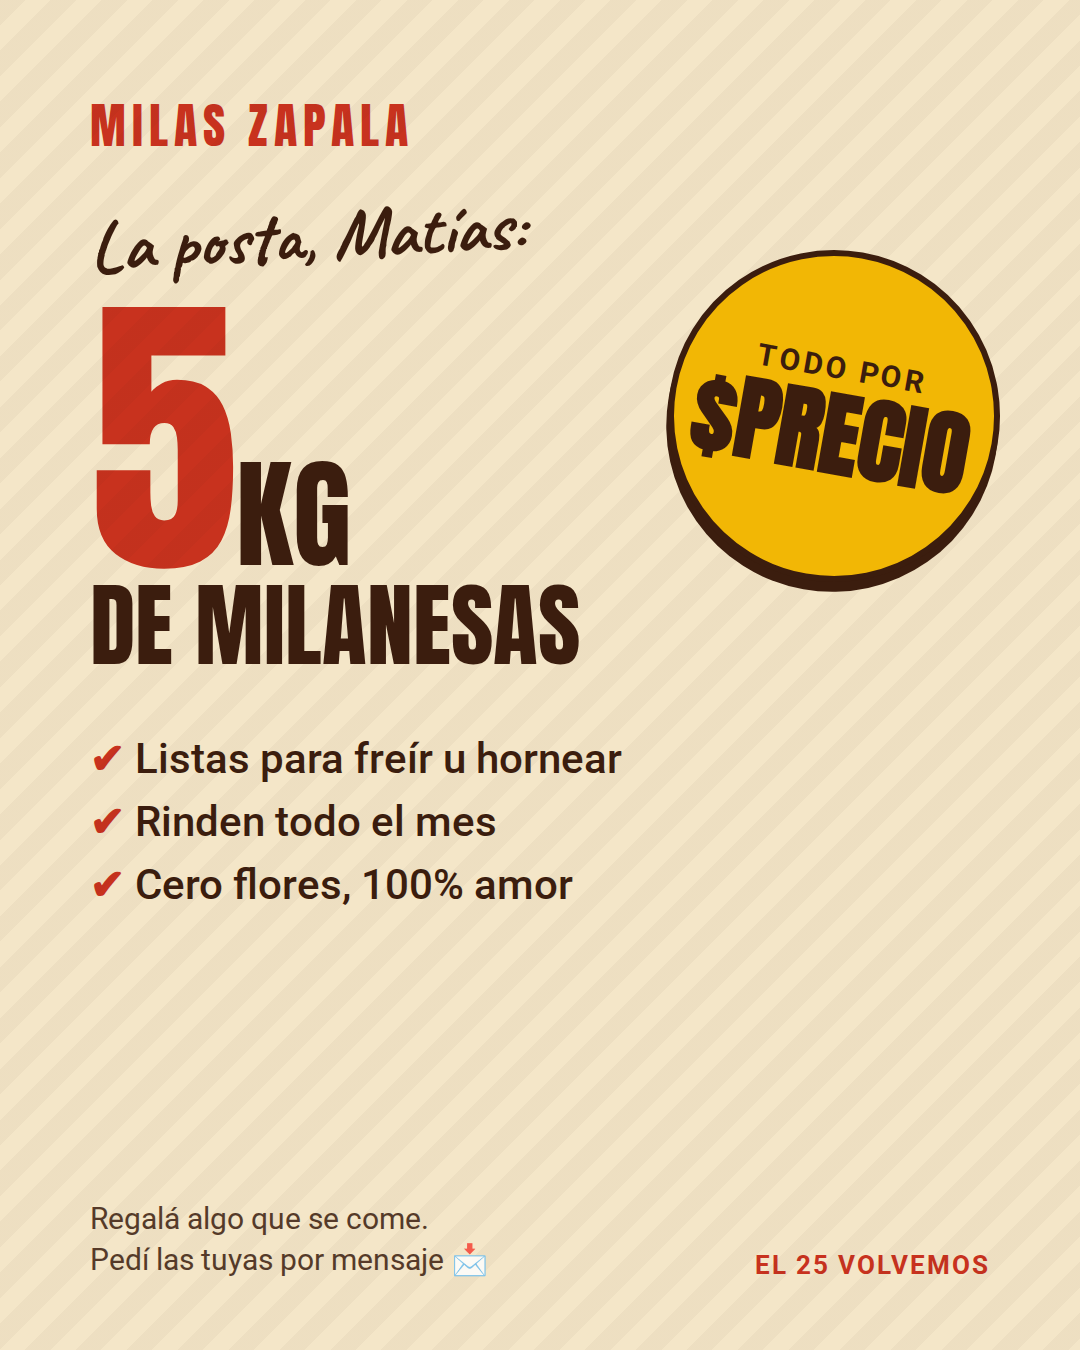
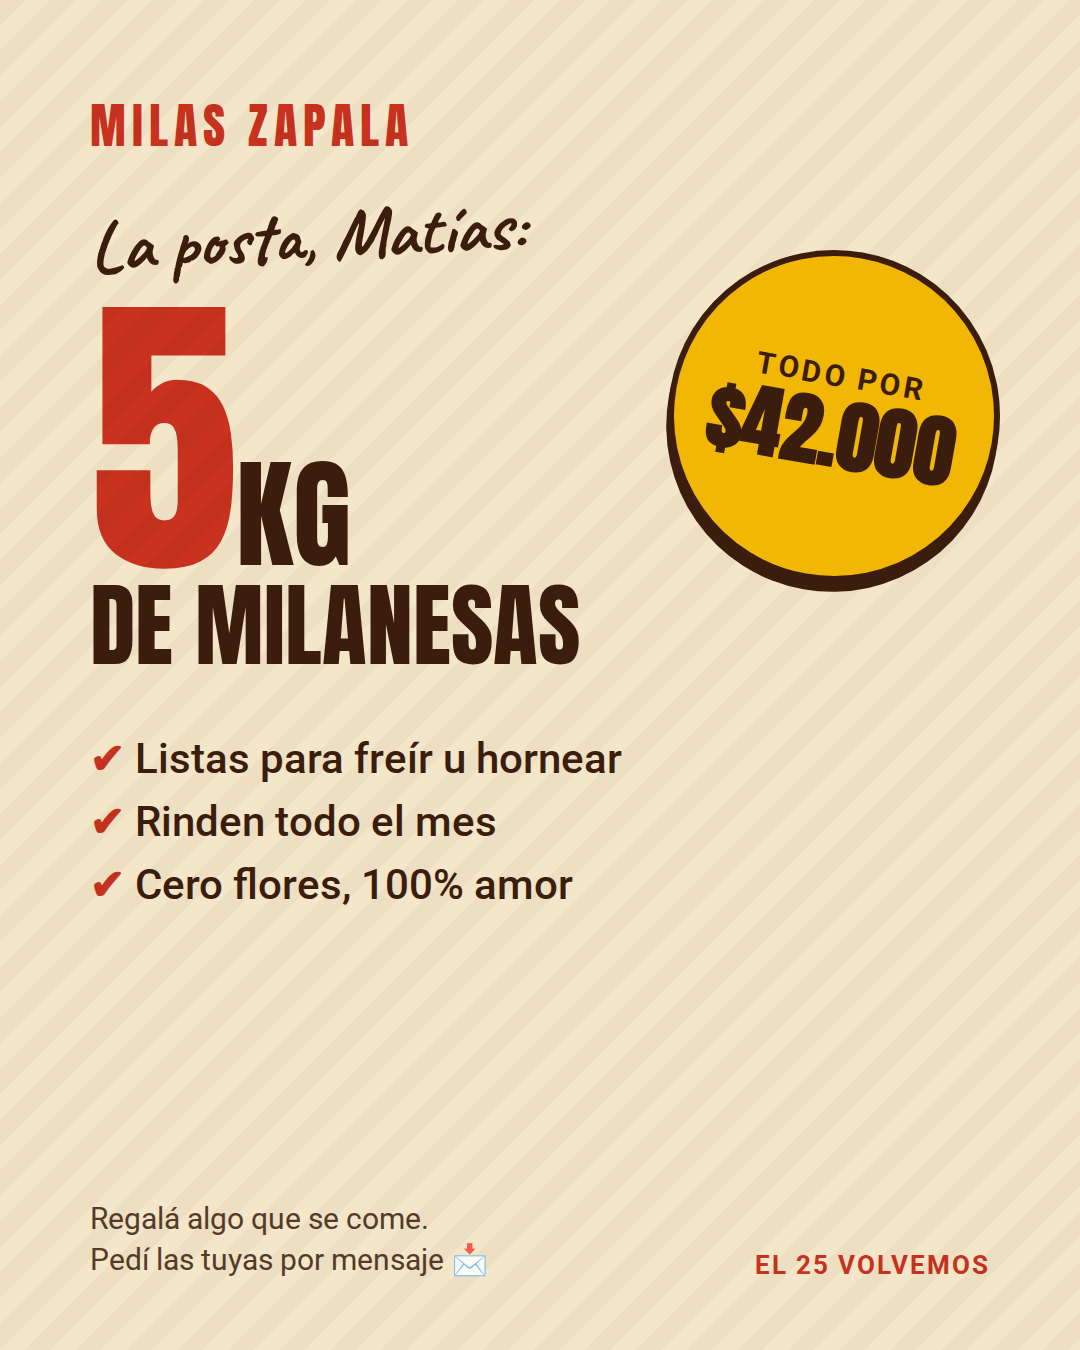
Set 5kg milanesas price to $42.000
Claude-Session: https://claude.ai/code/session_01XRszESRAVuQVV6XRXVnhQb

Changed region(s): [[0.6417, 0.2489, 0.9167, 0.3733]]

diff --git a/meme/carrusel.html b/meme/carrusel.html
@@ -32,7 +32,7 @@
     background:#f2b705;color:#3b1d0e;display:flex;flex-direction:column;align-items:center;justify-content:center;
     transform:rotate(10deg);box-shadow:0 10px 0 #3b1d0e;border:6px solid #3b1d0e}
   .price span{font-family:Roboto;font-weight:700;font-size:30px;letter-spacing:3px}
-  .price b{font-family:Anton,sans-serif;font-size:92px;line-height:1.05}
+  .price b{font-family:Anton,sans-serif;font-size:78px;line-height:1.05}
   .foot{margin-top:auto;display:flex;justify-content:space-between;align-items:flex-end}
   .joke{font-size:30px;max-width:620px;line-height:1.35;opacity:.85}
   .back{font-size:26px;font-weight:700;letter-spacing:2px;text-transform:uppercase;color:#c8321e}
@@ -57,7 +57,7 @@
     <li>Rinden todo el mes</li>
     <li>Cero flores, 100% amor</li>
   </ul>
-  <div class="price"><span>TODO POR</span><b>$PRECIO</b></div>
+  <div class="price"><span>TODO POR</span><b>$42.000</b></div>
   <div class="foot">
     <div class="joke">Regalá algo que se come.<br>Pedí las tuyas por mensaje 📩</div>
     <div class="back">El 25 volvemos</div>
